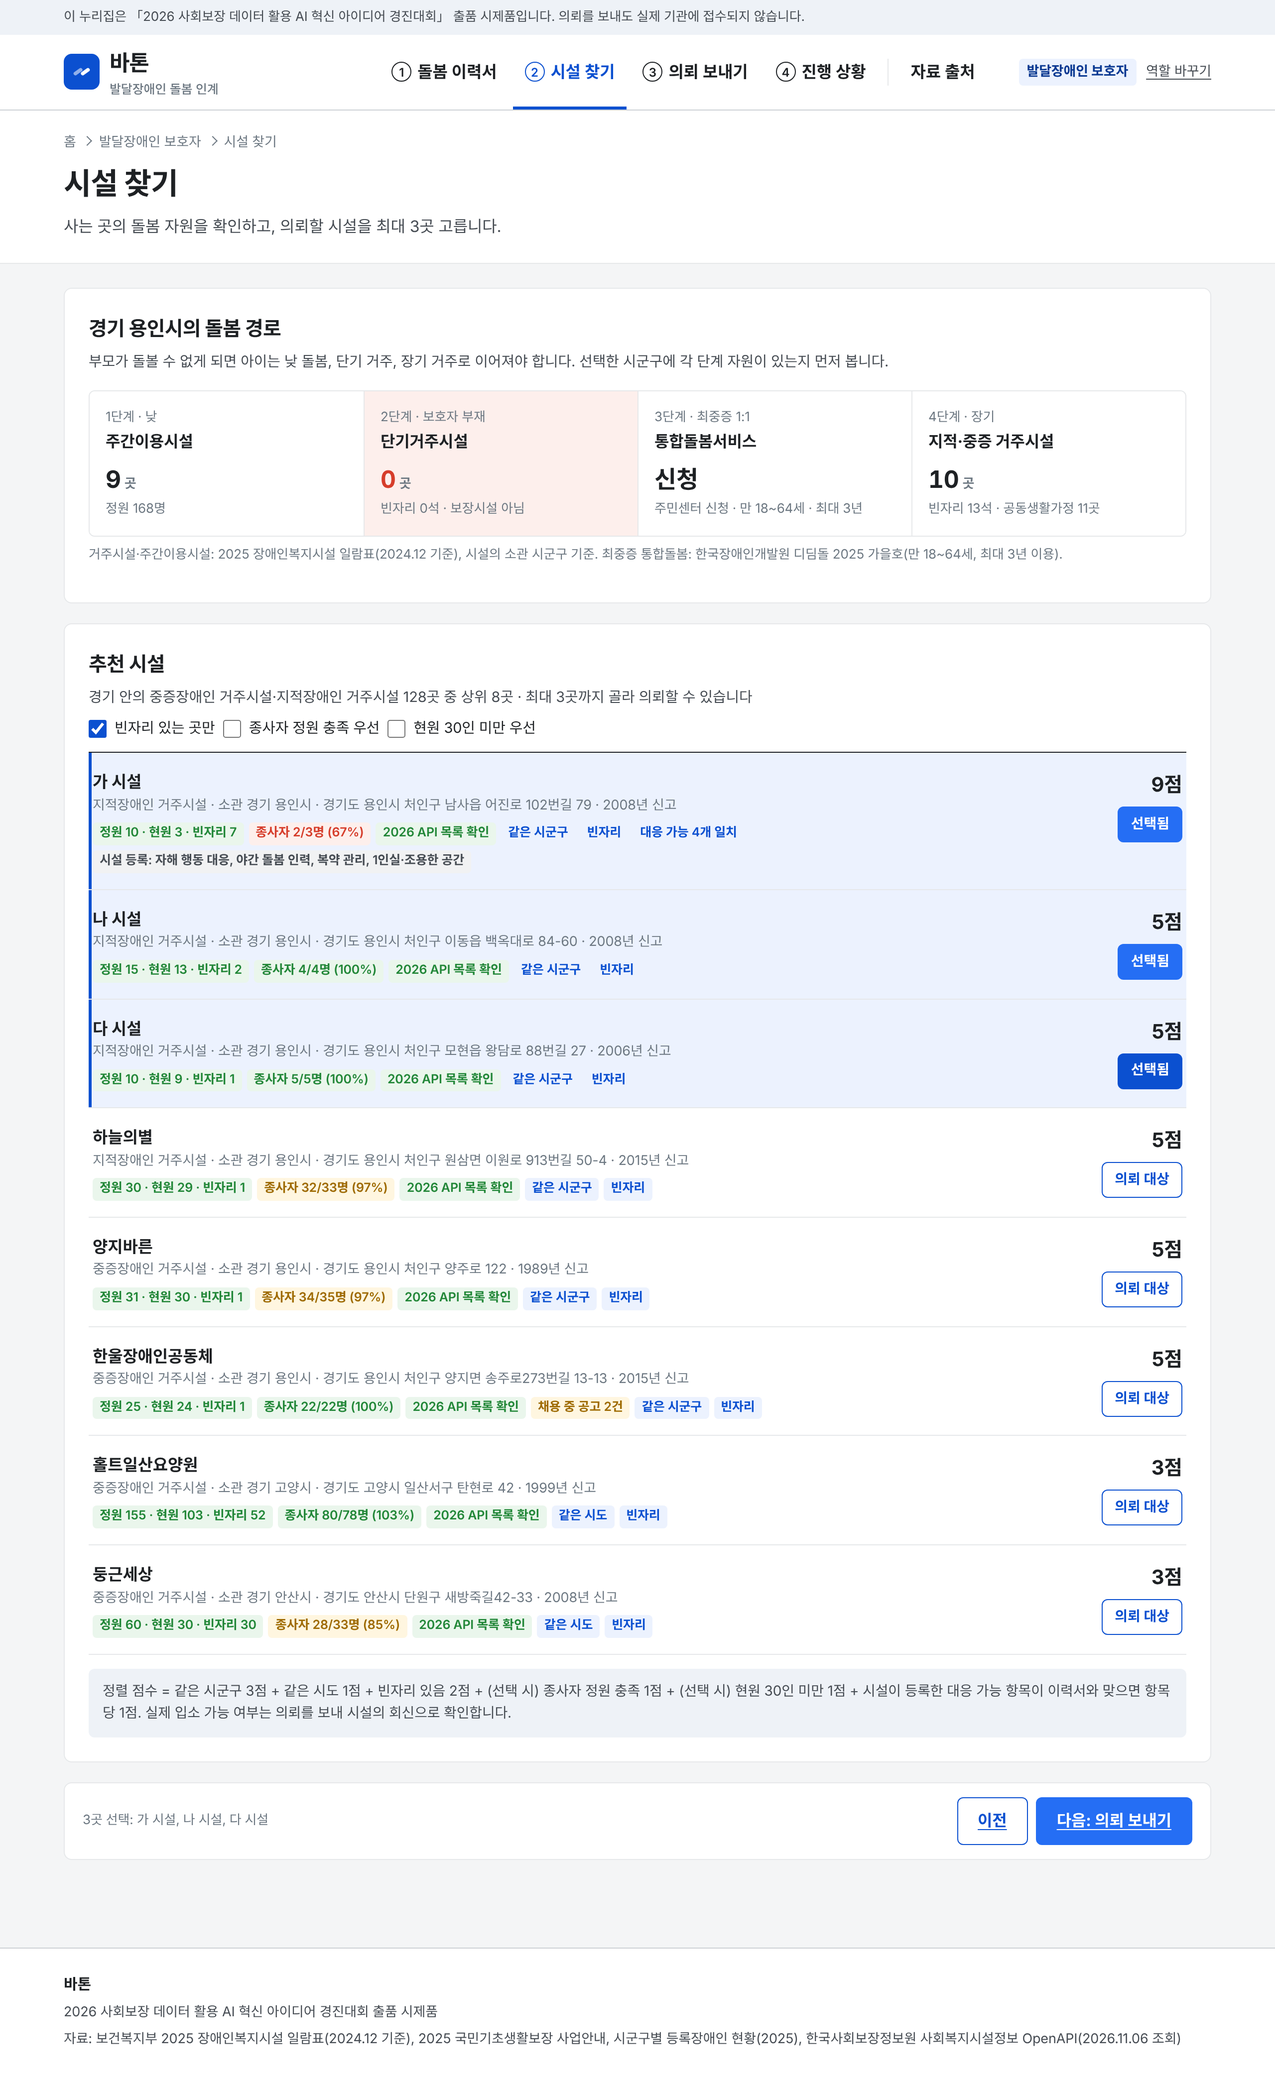
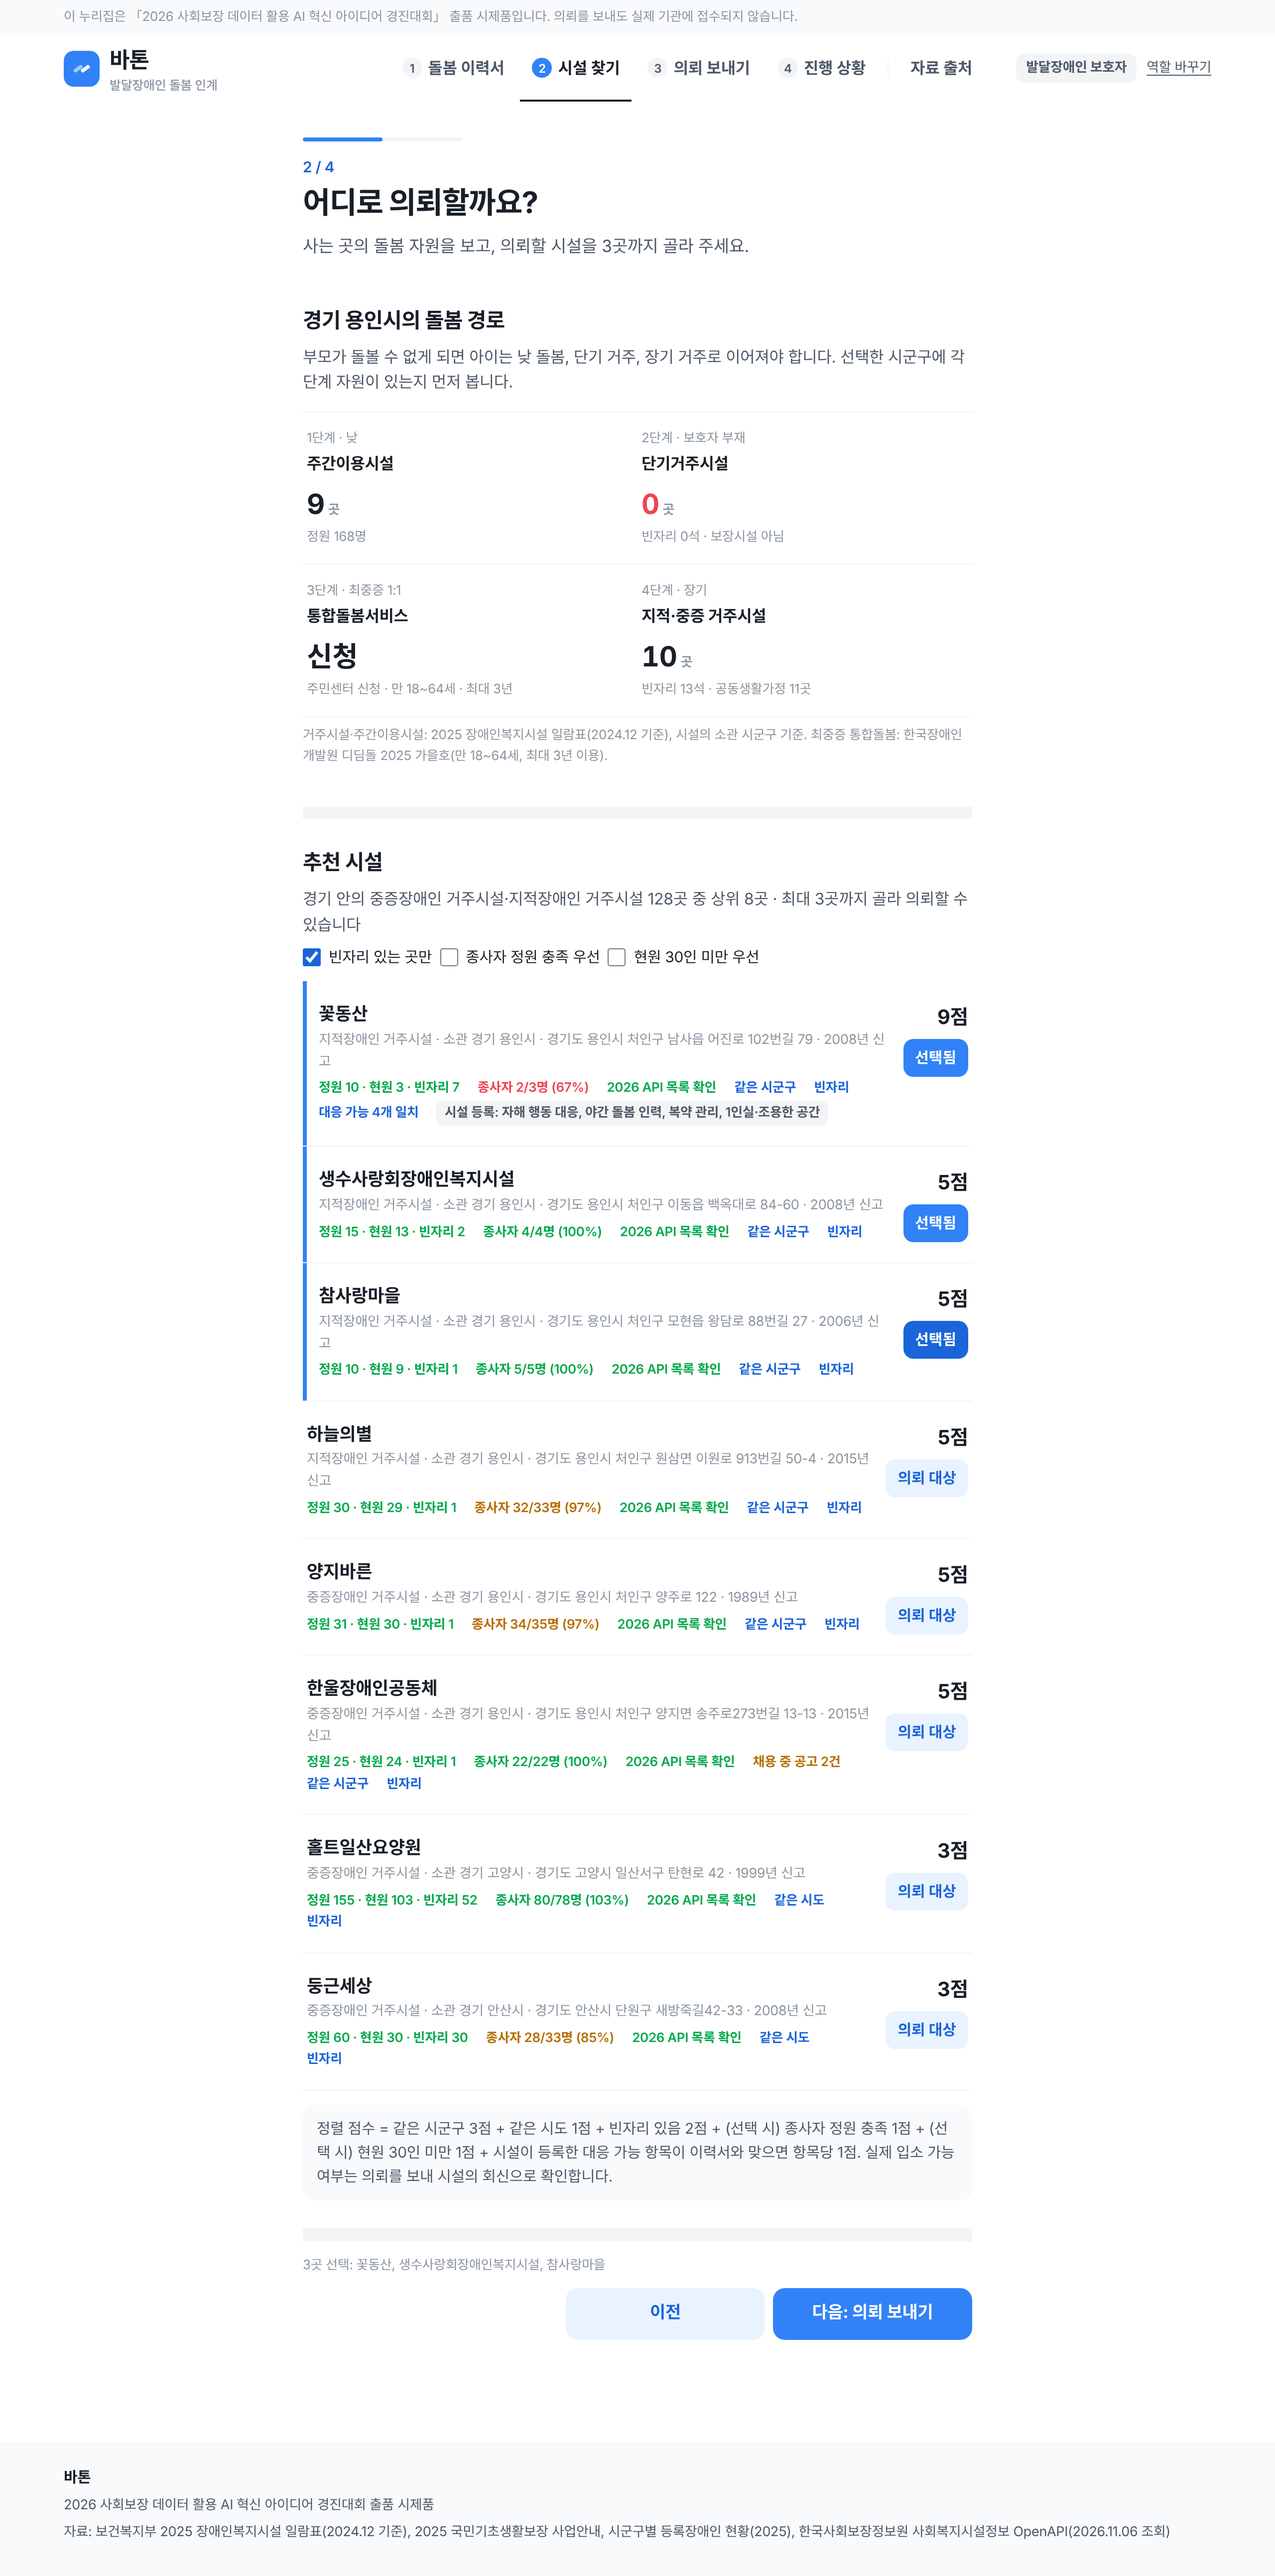
웹 디자인을 앱 단계형으로 변경, 캡처 갱신(실제 시설명)
Claude-Session: https://claude.ai/code/session_01E5iyJSof6tV4RX4q3ReZ3G

diff --git a/web_demo/index.html b/web_demo/index.html
@@ -289,6 +289,118 @@ ol.logl b{color:var(--p60)}
 .chkitem .src{display:block}
 .chkitem:has(input:checked){background:var(--ok-soft);border-color:#BFE3C6}
 details>summary{cursor:pointer;color:var(--p60);font-weight:600;font-size:14.5px;padding:4px 0}
+
+/* ===== B. 앱 단계형 ===== */
+:root{--p50:#3182F6;--p60:#1B64DA;--p70:#194FAA;--p5:#E8F3FF;--p10:#C9E2FF;--ink:#191F28;--ink2:#4E5968;--muted:#8B95A1;--line:#E5E8EB;--line2:#F2F4F6;--bg:#FFFFFF;--tint:#F9FAFB;--ok:#03A94D;--ok-soft:#E5F8EE;--warn:#B76E00;--warn-soft:#FFF3D6;--bad:#F04452;--bad-soft:#FFEEEE}
+body{background:#fff;font-size:17px;letter-spacing:-.01em}
+.govbar{background:#F9FAFB;color:var(--muted)}
+header.top{border-bottom:0;box-shadow:0 1px 0 var(--line2)}
+header.top .in{min-height:64px}
+.mark{border-radius:10px;background:var(--p50)}
+nav.gnb a{font-size:16px;font-weight:600;color:var(--ink2);padding:21px 12px 19px;border-bottom-width:2px}
+nav.gnb a[aria-current="page"]{color:var(--ink);border-bottom-color:var(--ink)}
+nav.gnb .no{border:0;background:var(--line2);color:var(--ink2)}
+nav.gnb a[aria-current="page"] .no{background:var(--p50);color:#fff}
+.rolesw span{background:var(--line2);color:var(--ink2);border-radius:8px;padding:4px 10px}
+.phead{border-bottom:0;background:#fff}
+.phead .in{padding-top:36px;padding-bottom:8px}
+.phead h1{font-size:30px;line-height:1.35;letter-spacing:-.03em;margin-top:4px}
+.phead p{font-size:17px;color:var(--ink2);margin-top:10px}
+.crumb{display:none}
+.wrap{gap:0;padding-top:8px}
+.card{border:0;border-radius:0;padding:28px 0;border-bottom:12px solid var(--line2);background:#fff}
+.card:last-child{border-bottom:0}
+.card h2{font-size:21px;letter-spacing:-.02em}
+.sub{font-size:16px;color:var(--ink2)}
+.grid2,.grid2e{gap:0 48px}
+.btn{text-decoration:none;border-radius:12px;height:52px;font-size:17px;border:0;background:var(--p50)}
+.btn:hover{background:var(--p60)}
+.btn.ghost{background:var(--p5);color:var(--p60)}
+.btn.ghost:hover{background:var(--p10)}
+.btn.sm{height:38px;border-radius:10px;font-size:15px}
+input[type=number],input[type=text],select,textarea{border:0;background:var(--line2);border-radius:12px;font-size:17px;padding:14px 16px}
+select{height:52px}
+input:hover,select:hover,textarea:hover{background:#ECEEF1}
+textarea{min-height:220px}
+label.f{font-size:15px;color:var(--ink2);font-weight:500}
+.radio{flex-direction:column;gap:0;border-top:1px solid var(--line2)}
+.radio label{border:0;border-bottom:1px solid var(--line2);border-radius:0;padding:16px 4px;font-size:17px;justify-content:space-between;flex-direction:row-reverse;background:#fff}
+.radio input{accent-color:var(--p50);width:22px;height:22px}
+.radio label:has(input:checked){background:#fff;color:var(--ink);font-weight:600}
+.check{font-size:15px}
+.pill{border-radius:6px;font-size:13px;padding:3px 8px;background:var(--line2);color:var(--ink2);font-weight:600}
+.pill.acc,.pill.relay{background:var(--p5);color:var(--p60)}
+.note{background:var(--tint);border-radius:12px;font-size:15px}
+.empty{border:0;background:var(--tint);border-radius:12px}
+.resume .sec{border:0;border-bottom:1px solid var(--line2);border-radius:0;padding:18px 0}
+.resume .sec h3{font-size:17px}
+.behitem{border-left:0;background:var(--tint);border-radius:12px;padding:12px 14px}
+.path{border:0;border-radius:0;gap:0;border-top:1px solid var(--line2)}
+.stage{border-left:0;border-bottom:1px solid var(--line2);padding:16px 4px}
+.stage.gap{background:#fff}
+.stage .n{font-size:28px}
+.facs{border-top:0}
+.fac{padding:20px 4px;border-bottom:1px solid var(--line2)}
+.fac.sel{background:#fff;box-shadow:inset 4px 0 0 var(--p50);padding-left:16px}
+.fac .nm{font-size:18px}
+table{border-top:0;font-size:15px}
+th{background:#fff;color:var(--muted);font-weight:500;border-bottom:1px solid var(--line)}
+th,td{border-bottom:1px solid var(--line2);padding:12px 10px}
+tr.hl td{background:var(--p5)}
+.tiles{border:0;border-radius:0;gap:0}
+.tile{border-left:0;padding:16px 0}
+.tile .k{color:var(--muted);font-weight:500}
+.tile .v{font-size:30px}
+.stats{border:0;border-radius:0}
+.stats div{border-left:0;padding:16px 0}
+.stats b{font-size:32px}
+.howto{border:0;border-radius:0;background:#fff}
+.howto li{border-left:0;padding:16px 16px 16px 0}
+.howto li::before{color:var(--p50)}
+.notice{border:0;background:var(--tint);border-radius:12px}
+.nextbar{position:sticky;bottom:0;z-index:4;border:0;border-radius:0;border-top:1px solid var(--line2);padding:14px 0;background:rgba(255,255,255,.96)}
+.nextbar .btn{min-width:200px}
+.refitem{border:0;border-bottom:1px solid var(--line2);border-radius:0;padding:20px 0}
+.rjbox{border:0;background:var(--tint);border-radius:12px}
+.reasons button{border:0;background:var(--line2);border-radius:10px;padding:9px 14px;font-size:15px}
+.reasons button[aria-pressed="true"]{background:var(--bad-soft);color:var(--bad)}
+.entrust{border:0;border-radius:12px}
+.capitem,.chkitem{border:0;background:var(--tint);border-radius:12px;padding:14px 16px}
+.capitem:has(input:checked),.chkitem:has(input:checked){background:var(--p5);border:0}
+.tstep{border:0;border-top:3px solid var(--line);border-radius:0;background:#fff;padding:12px 2px}
+.tstep.now{background:#fff;border-top-color:var(--p50)}
+.tcol.par{border:0;background:var(--tint);border-radius:12px}
+ol.flow li::before{border:0;background:var(--line2);color:var(--ink2)}
+ol.flow li.baton::before{background:var(--p50);color:#fff}
+pre.letter{border:0;background:var(--tint);border-radius:12px;font-size:15.5px}
+.formula,.cmp .box{border:0;background:var(--tint);border-radius:12px}
+.cmp .box.new{background:var(--p5)}
+details>summary{color:var(--p60)}
+footer.foot{border-top:0;background:var(--tint)}
+/* 홈 */
+.hero{border-bottom:12px solid var(--line2)}
+.hero .in{padding-top:56px;padding-bottom:48px;align-items:start}
+.hero h1{font-size:40px;line-height:1.3}
+.ills li{grid-template-columns:52px 1fr}
+.ill{width:52px;height:52px}
+.ill>circle:first-child{fill:transparent}
+.ills p{font-size:18px;color:var(--ink2)}
+.rolebox{border:0;padding:0}
+.rolebox h2{font-size:26px}
+.rolebtn{border:0;border-bottom:1px solid var(--line2);border-radius:0;padding:18px 4px;grid-template-columns:44px 1fr 12px}
+.rolebtn:hover{background:var(--tint)}
+.rolebtn b{font-size:19px}
+/* 보호자 화면은 앱처럼 한 줄 */
+body[data-role="guardian"] .wrap,body[data-role="guardian"] .phead .in{max-width:720px}
+body[data-role="guardian"] .grid2,body[data-role="guardian"] .grid2e{grid-template-columns:1fr}
+body[data-role="guardian"] .path{grid-template-columns:1fr 1fr}
+body[data-role="guardian"] .track{grid-template-columns:1fr}
+.pill.ok,.pill.warn,.pill.bad,.pill.acc,.pill.relay{background:transparent;padding:0;margin-right:8px;font-weight:600}
+.fac .chips{gap:2px 10px}
+.nextbar .btns{margin-left:auto}
+.prog{height:4px;background:var(--line2);border-radius:2px;margin:0 0 14px;overflow:hidden;max-width:160px}
+.prog i{display:block;height:100%;background:var(--p50);border-radius:2px}
+.stepno{display:block;font-size:15px;color:var(--p60);font-weight:600;margin-bottom:2px}
 </style>
 </head>
 <body>
@@ -315,7 +427,7 @@ details>summary{cursor:pointer;color:var(--p60);font-weight:600;font-size:14.5px
   </div>
   <div class="rolebox" role="group" aria-labelledby="roleTitle">
     <h2 id="roleTitle">어떤 분이신가요?</h2>
-    <p class="src" style="margin:0 0 4px;font-size:14.5px">고르시면 그에 맞는 화면으로 이어집니다.</p>
+    <p class="src" style="margin:0 0 4px;font-size:16px">고르시면 그에 맞는 화면으로 이어져요.</p>
     <a class="rolebtn" href="#g1"><svg class="ill" width="44" height="44" viewBox="0 0 72 72" aria-hidden="true"><circle cx="36" cy="36" r="36" fill="#ECF2FE"/><circle cx="25" cy="25" r="7" fill="#8FB2F9"/><path d="M12 54c0-9 5.8-16 13-16s13 7 13 16z" fill="#8FB2F9"/><circle cx="43" cy="29" r="6" fill="#0B50D0"/><path d="M33 56c0-8 4.5-14 10-14s10 6 10 14z" fill="#0B50D0"/><rect x="46" y="14" width="16" height="20" rx="2.5" fill="#fff" stroke="#0B50D0" stroke-width="1.6"/><path d="M50 20h8M50 24h8M50 28h5" stroke="#0B50D0" stroke-width="1.6" stroke-linecap="round"/></svg><span><b>발달장애인 보호자</b><span>돌봄 이력서를 쓰고 시설에 의뢰해요</span></span></a>
     <a class="rolebtn" href="#facility"><svg class="ill" width="44" height="44" viewBox="0 0 72 72" aria-hidden="true"><circle cx="36" cy="36" r="36" fill="#ECF2FE"/><path d="M13 33L32 18l19 15" fill="none" stroke="#0B50D0" stroke-width="2.4" stroke-linejoin="round" stroke-linecap="round"/><rect x="17" y="31" width="30" height="24" fill="#8FB2F9"/><rect x="28" y="42" width="8" height="13" rx="1" fill="#0B50D0"/><rect x="20" y="36" width="6" height="6" rx="1" fill="#fff"/><rect x="38" y="36" width="6" height="6" rx="1" fill="#fff"/><path d="M47 14h14a3 3 0 0 1 3 3v9a3 3 0 0 1-3 3h-7l-5 4v-4h-2a3 3 0 0 1-3-3v-9a3 3 0 0 1 3-3z" fill="#0B50D0"/><path d="M50 21.5l3 3 5.5-6" fill="none" stroke="#fff" stroke-width="2" stroke-linecap="round" stroke-linejoin="round"/></svg><span><b>시설 담당자</b><span>들어온 의뢰를 보고 회신해요</span></span></a>
     <a class="rolebtn" href="#cases"><svg class="ill" width="44" height="44" viewBox="0 0 72 72" aria-hidden="true"><circle cx="36" cy="36" r="36" fill="#ECF2FE"/><path d="M12 27L32 16l20 11z" fill="#0B50D0"/><rect x="14" y="27" width="36" height="3" fill="#0B50D0"/><rect x="17" y="31" width="4" height="18" fill="#8FB2F9"/><rect x="25" y="31" width="4" height="18" fill="#8FB2F9"/><rect x="35" y="31" width="4" height="18" fill="#8FB2F9"/><rect x="43" y="31" width="4" height="18" fill="#8FB2F9"/><rect x="12" y="49" width="40" height="4" fill="#0B50D0"/><rect x="45" y="40" width="18" height="17" rx="2.5" fill="#fff" stroke="#0B50D0" stroke-width="1.6"/><rect x="49" y="48" width="3" height="6" fill="#0B50D0"/><rect x="53.5" y="44" width="3" height="10" fill="#8FB2F9"/><rect x="58" y="46" width="3" height="8" fill="#0B50D0"/></svg><span><b>담당 공무원</b><span>의뢰를 검토·위탁하고 관할 현황을 봐요</span></span></a>
@@ -347,7 +459,7 @@ details>summary{cursor:pointer;color:var(--p60);font-weight:600;font-size:14.5px
 
 <!-- ================= 부모 ================= -->
 <section class="view" id="v-g1">
-<div class="phead"><div class="in"><div class="crumb"><a href="#home">홈</a><span>발달장애인 보호자</span><span>돌봄 이력서</span></div><h1>돌봄 이력서 만들기</h1><p>아이에 대해 평소 말하듯 적어 주세요. AI가 시설 상담에 필요한 항목으로 정리합니다.</p></div></div>
+<div class="phead"><div class="in"><div class="crumb"><a href="#home">홈</a><span>발달장애인 보호자</span><span>돌봄 이력서</span></div><div class="prog"><i style="width:25%"></i></div><span class="stepno">1 / 4</span><h1>아이에 대해 알려 주세요</h1><p>평소 말하듯 적으면 AI가 시설 상담에 필요한 항목으로 정리해요.</p></div></div>
 <div class="wrap">
   <div class="grid2">
     <div class="card">
@@ -384,7 +496,7 @@ details>summary{cursor:pointer;color:var(--p60);font-weight:600;font-size:14.5px
 </section>
 
 <section class="view" id="v-g2">
-<div class="phead"><div class="in"><div class="crumb"><a href="#home">홈</a><span>발달장애인 보호자</span><span>시설 찾기</span></div><h1>시설 찾기</h1><p>사는 곳의 돌봄 자원을 확인하고, 의뢰할 시설을 최대 3곳 고릅니다.</p></div></div>
+<div class="phead"><div class="in"><div class="crumb"><a href="#home">홈</a><span>발달장애인 보호자</span><span>시설 찾기</span></div><div class="prog"><i style="width:50%"></i></div><span class="stepno">2 / 4</span><h1>어디로 의뢰할까요?</h1><p>사는 곳의 돌봄 자원을 보고, 의뢰할 시설을 3곳까지 골라 주세요.</p></div></div>
 <div class="wrap">
   <div class="card">
     <h2 id="pathTitle">돌봄 경로</h2>
@@ -409,7 +521,7 @@ details>summary{cursor:pointer;color:var(--p60);font-weight:600;font-size:14.5px
 </section>
 
 <section class="view" id="v-g3">
-<div class="phead"><div class="in"><div class="crumb"><a href="#home">홈</a><span>발달장애인 보호자</span><span>의뢰 보내기</span></div><h1>의뢰 보내기</h1><p>한 번 보내면 고른 시설과 주민센터(시군구)에 같은 의뢰서가 동시에 전달됩니다.</p></div></div>
+<div class="phead"><div class="in"><div class="crumb"><a href="#home">홈</a><span>발달장애인 보호자</span><span>의뢰 보내기</span></div><div class="prog"><i style="width:75%"></i></div><span class="stepno">3 / 4</span><h1>이대로 보낼까요?</h1><p>한 번 보내면 고른 시설과 주민센터에 같은 의뢰서가 함께 전달돼요.</p></div></div>
 <div class="wrap">
   <div class="card">
     <div class="grid2e">
@@ -434,7 +546,7 @@ details>summary{cursor:pointer;color:var(--p60);font-weight:600;font-size:14.5px
 </section>
 
 <section class="view" id="v-g4">
-<div class="phead"><div class="in"><div class="crumb"><a href="#home">홈</a><span>발달장애인 보호자</span><span>진행 상황</span></div><h1>진행 상황</h1><p>보낸 의뢰가 시설과 시군구에서 어디까지 처리됐는지 한 화면에서 봅니다.</p></div></div>
+<div class="phead"><div class="in"><div class="crumb"><a href="#home">홈</a><span>발달장애인 보호자</span><span>진행 상황</span></div><div class="prog"><i style="width:100%"></i></div><span class="stepno">4 / 4</span><h1>지금 여기까지 왔어요</h1><p>시설 회신과 시군구 검토가 어디까지 됐는지 보여 드려요.</p></div></div>
 <div class="wrap"><div id="gStatus"></div></div>
 </section>
 
@@ -1275,6 +1387,7 @@ function renderNav(v){
   const n=ROLE?NAVS[ROLE]:null;
   const badge=id=> id==="facility"&&REFS.filter(r=>r.status==="미회신").length? `<i class="cnt">${REFS.filter(r=>r.status==="미회신").length}</i>` : id==="cases"&&CASES.filter(c=>c.entrusted==null).length? `<i class="cnt">${CASES.filter(c=>c.entrusted==null).length}</i>` : "";
   $("gnb").innerHTML=(n?n.items.map(([id,l],i)=>`<a href="#${id}" data-v="${id}">${ROLE==="guardian"?`<i class="no">${i+1}</i>`:""}${l}${badge(id)}</a>`).join("")+'<span class="sep" aria-hidden="true"></span>':"")+'<a href="#evidence" data-v="evidence">자료 출처</a>';
+  document.body.dataset.role=ROLE||"";
   $("roleSw").innerHTML=n?`<span>${n.name}</span><a href="#home">역할 바꾸기</a>`:"";
   document.querySelectorAll("#gnb a").forEach(a=>a.setAttribute("aria-current",a.dataset.v===v?"page":"false"));
 }
